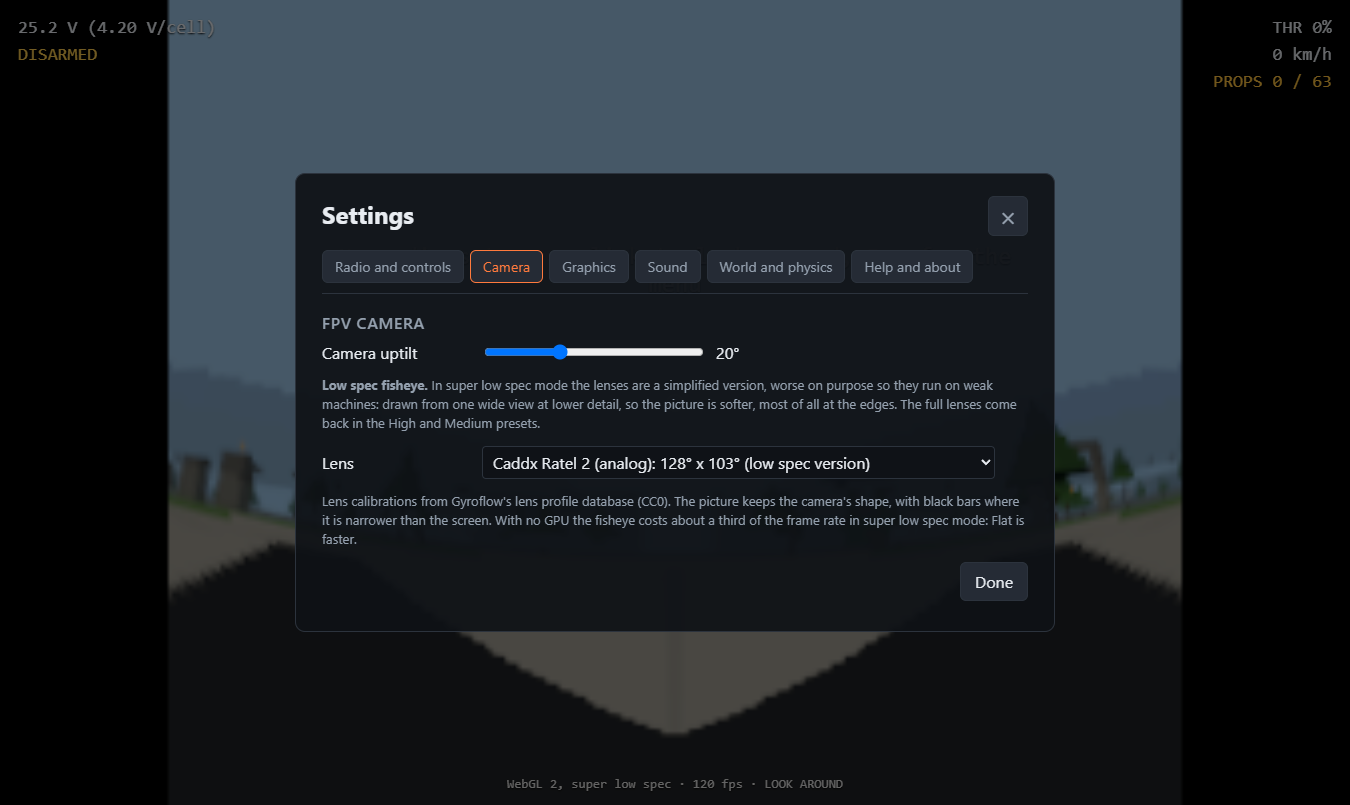
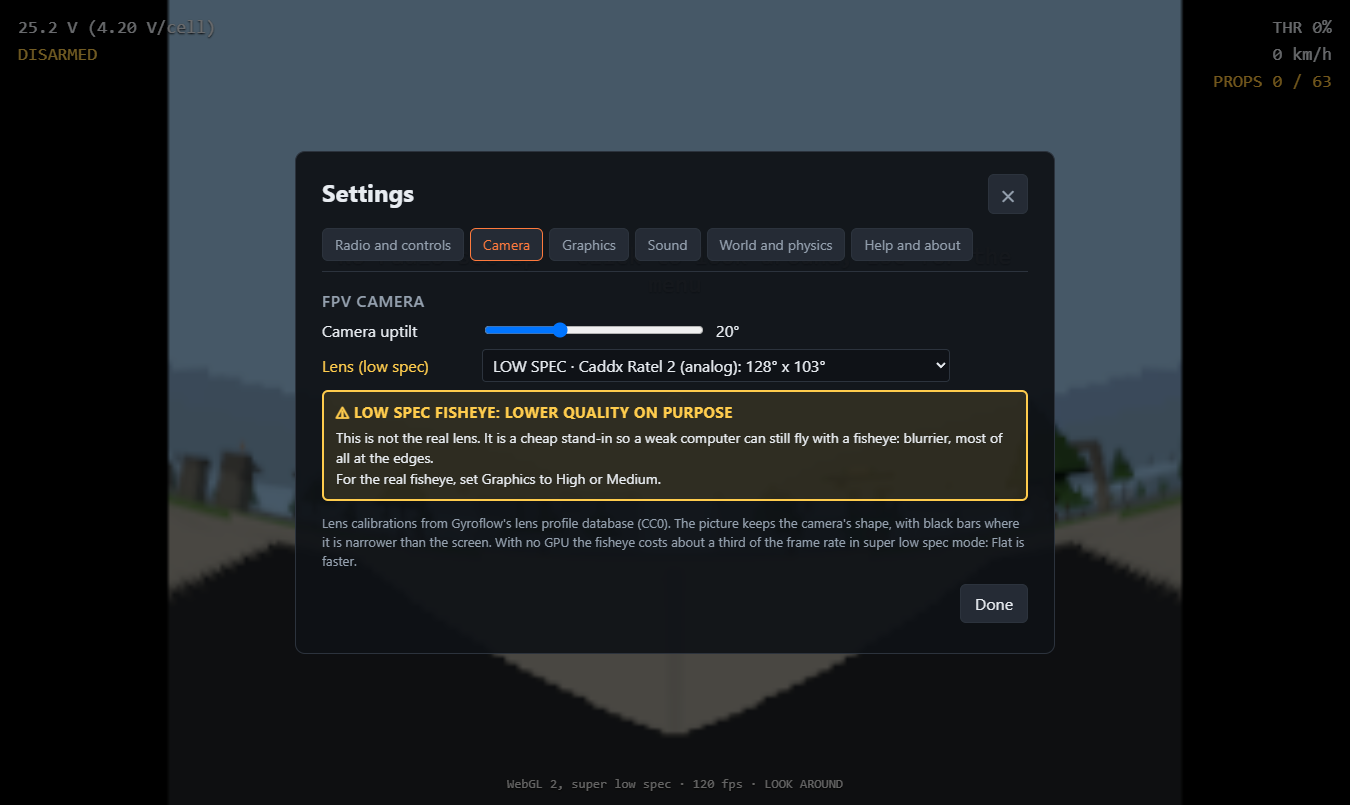
Low spec fisheye: a warning box, not a note (owner: "This is not clear at all. It looks like simple explainer text"). In low spec modes Settings > Camera shows an amber-bordered box under the Lens list, "⚠ LOW SPEC FISHEYE: LOWER QUALITY ON PURPOSE", saying it is not the real lens and to set Graphic

Changed region(s): [[0.2178, 0.1863, 0.7778, 0.7764], [0.3422, 0.7764, 0.6533, 0.8385]]

diff --git a/apps/fly/src/ui/settings-ui.ts b/apps/fly/src/ui/settings-ui.ts
@@ -267,16 +267,21 @@ export class SettingsUi {
             camera: [
                 h('h2', {}, 'FPV camera'),
                 this.slider('Camera uptilt', 0, 60, s.uptiltDeg, '°', (v) => { s.uptiltDeg = v; host.onCamera(); host.save(); }),
-                // the low spec lens is a cut-down one; say so plainly (owner, 2026-10-24: "worse on purpose")
-                ...(isLowSpec(host.graphicsNow) ? [h('p', { class: 'note' }, h('b', {}, 'Low spec fisheye. '),
-                    `In ${graphicsName(host.graphicsNow)} mode the lenses are a simplified version, worse on purpose so they run on weak machines: drawn from one wide view at lower detail, so the picture is softer, most of all at the edges. The full lenses come back in the High and Medium presets.`)] : []),
-                h('div', { class: 'row' }, h('span', { style: 'width:150px' }, 'Lens'),
+                h('div', { class: 'row' }, isLowSpec(host.graphicsNow)
+                    ? h('span', { style: 'width:150px', class: 'warn' }, 'Lens (low spec)')
+                    : h('span', { style: 'width:150px' }, 'Lens'),
                     h('select', { onchange: (e: Event) => { s.lens = (e.target as HTMLSelectElement).value; host.onCamera(); host.save(); this.build(); } },
                         h('option', { value: NO_LENS, selected: s.lens === NO_LENS }, 'Flat (no fisheye), field of view below'),
                         ...LENSES.map((l) => {
                             const f = lensFov(l);
-                            return h('option', { value: l.id, selected: s.lens === l.id }, `${l.label}: ${Math.round(f.h)}° x ${Math.round(f.v)}°${isLowSpec(host.graphicsNow) ? ' (low spec version)' : ''}`);
+                            return h('option', { value: l.id, selected: s.lens === l.id }, `${isLowSpec(host.graphicsNow) ? 'LOW SPEC · ' : ''}${l.label}: ${Math.round(f.h)}° x ${Math.round(f.v)}°`);
                         }))),
+                // the low spec lens is a cut-down one: a warning box, not a note, so nobody takes it for the real
+                // lens (owner, 2026-10-24: "worse on purpose because its low spec"; a plain note was "not clear at all")
+                ...(isLowSpec(host.graphicsNow) ? [h('div', { class: 'callout-warn' },
+                    h('div', { class: 'callout-title' }, '⚠ Low spec fisheye: lower quality on purpose'),
+                    h('div', {}, 'This is not the real lens. It is a cheap stand-in so a weak computer can still fly with a fisheye: blurrier, most of all at the edges.'),
+                    h('div', {}, 'For the real fisheye, set Graphics to High or Medium.'))] : []),
                 // a real lens sets its own field of view (owner, 2026-10-18: hide the slider then)
                 s.lens === NO_LENS
                     ? this.slider('Field of view', 80, 150, s.fovDeg, '°', (v) => { s.fovDeg = v; host.onCamera(); host.save(); })

diff --git a/apps/fly/src/style.css b/apps/fly/src/style.css
@@ -91,6 +91,9 @@ table.rates input { width: 76px; }
 #hud .cross { position: absolute; left: 50%; top: 50%; width: 18px; height: 18px; margin: -9px 0 0 -9px; border: 2px solid rgba(255,255,255,0.55); border-radius: 50%; }
 #hud .bottom { position: absolute; left: 50%; bottom: 14px; transform: translateX(-50%); font-size: 13px; color: #ddd; }
 .warn { color: #ffcc4d; }
+/* a warning that must not read as explainer text (the low spec fisheye) */
+.callout-warn { margin: 8px 0 12px; padding: 10px 12px; border: 2px solid #ffcc4d; border-radius: 6px; background: rgba(255, 204, 77, 0.12); color: var(--text); font-size: 14px; line-height: 1.45; }
+.callout-warn .callout-title { color: #ffcc4d; font-weight: 700; font-size: 15px; text-transform: uppercase; letter-spacing: 0.03em; margin-bottom: 4px; }
 .section-head { display: flex; align-items: center; gap: 12px; margin: 18px 0 8px; }
 .section-head h2 { margin: 0; flex: 1; }
 .gear-btn { display: inline-flex; align-items: center; gap: 8px; }

diff --git a/docs/decisions.md b/docs/decisions.md
@@ -134,3 +134,4 @@ Questions put to the owner and the answers, newest last. `SPEC.md` reflects them
 | 2026-10-24 | Flying checks (owner's answer) | "All listed flying check are good for me now, they can be removed from the list." (city pass, see-through circle, railway, forest and yard, map joined up, sound, shadows and people, vehicles, Duga, respawns, airport and its sounds, city tours, low spec, grader) |
 | 2026-10-22 | A fisheye for low spec (owner's ask) | "Is it possible to make a simple version of fisheye that is runnable on lower spec machines?" Offered the same calibrated lens on the low spec renderer with cheap targets, measured on the slow-machine probes. Answer: "Lets build it". Taken without asking after measuring: one wide face instead of three (the side faces were the whole cost); 0.7 texels per pixel in Low, 0.5 in Extra and Super; the lens offered in every mode with the saved choice applying; face near planes brought in (also in full graphics) |
 | 2026-10-24 | Low spec fisheye on main (owner's ask) | "Bring it over, but make sure its clear on the camera menu that this is a special fisheye that is worse on purpose because its low spec." Taken without asking: a note at the top of Settings > Camera in low spec modes, and "(low spec version)" after each lens name |
+| 2026-10-24 | Low spec fisheye label (owner) | "This is not clear at all. It looks like simple explainer text." Taken without asking: an amber warning box under the Lens list, the label "Lens (low spec)", each lens "LOW SPEC · <name>" |

diff --git a/HANDOFF.md b/HANDOFF.md
@@ -12,7 +12,7 @@ The current state only. Rewrite it in place: don't add to it. Detail from finish
   of 10 with reasons, listed in the replay viewer; the owner is happy with it for now (2026-10-24).
   Low spec mode built (Settings > Graphics, or `?lowspec`): classic WebGL renderer, same physics. [low-spec §0v]
   Low spec fisheye (owner; on main 2026-10-24): the lens from one wide view; free on a weak GPU, ~1/3 of the fps with
-  none; Settings > Camera says it is a simplified lens, worse on purpose, and tags each lens "(low spec version)". [low-spec]
+  none; Settings > Camera shows an amber "lower quality on purpose" warning box and "LOW SPEC ·" on each lens. [low-spec]
   Report screen built (menu > Report or suggest): opens a GitHub issue with the game's state. [feedback §0w]
   Extra and super low spec built (Settings > Graphics, `?lowspec=extra|super`): no traffic, half / quarter resolution,
   300 / 200 m view; super holds 60 fps with no GPU on 2 cores. [low-spec]

diff --git a/docs/notes/low-spec.md b/docs/notes/low-spec.md
@@ -194,3 +194,6 @@ any low spec mode Settings > Camera now opens with a "Low spec fisheye." note (a
 softer most of all at the edges; the full lenses in High and Medium), and each lens in the list ends "(low spec
 version)". Checked in headless Chrome: `menu-super.png` (super low spec, the lens drawn behind the menu), `menu-full.png`
 (full graphics: no note, no tag). 69 files, 620 tests pass; typecheck clean.
+Owner: "This is not clear at all. It looks like simple explainer text." Now a warning box under the Lens list (amber
+border and tint, "⚠ LOW SPEC FISHEYE: LOWER QUALITY ON PURPOSE", "This is not the real lens ... For the real fisheye, set
+Graphics to High or Medium"), the row label "Lens (low spec)" in amber, each lens "LOW SPEC · <name>". Shots re-taken.
